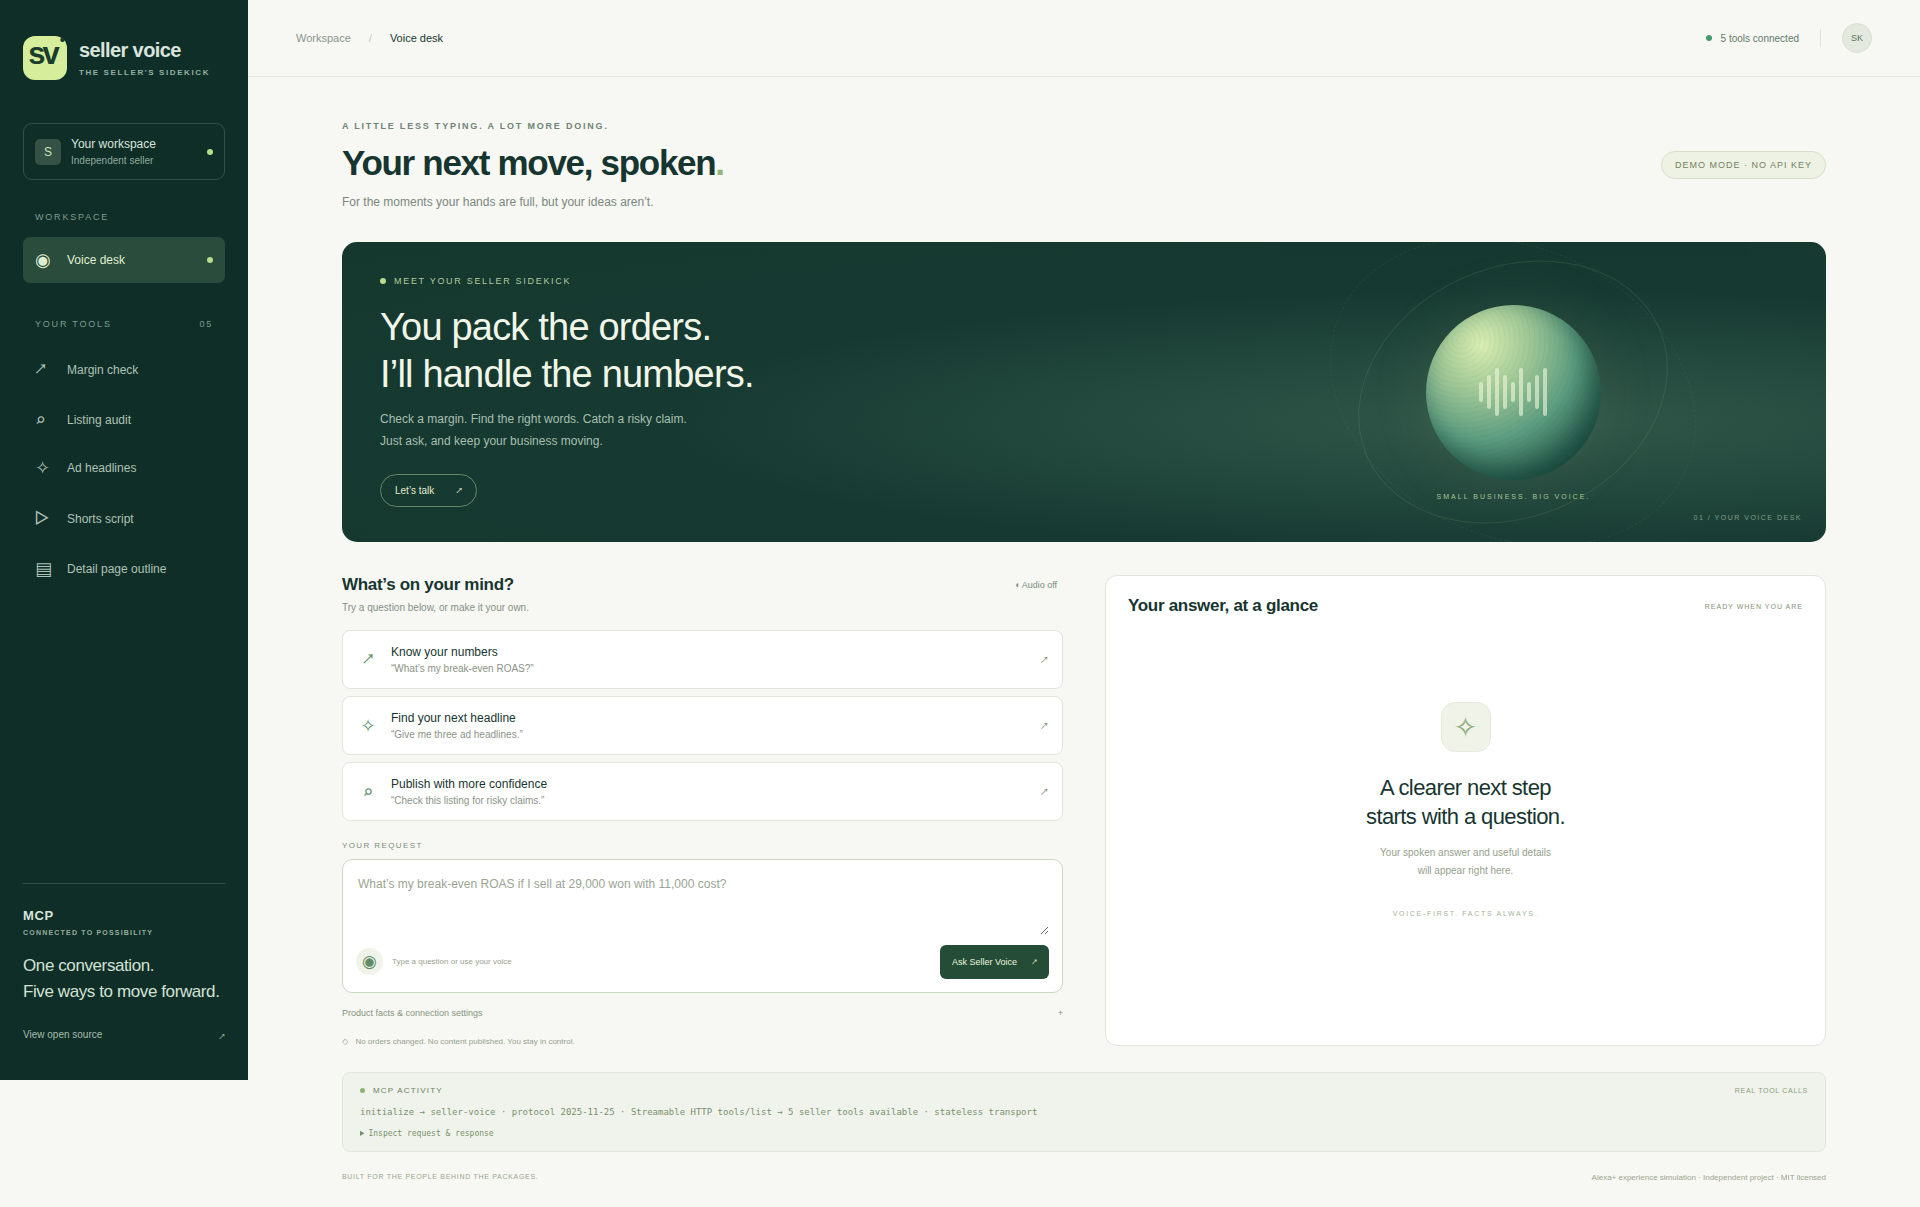
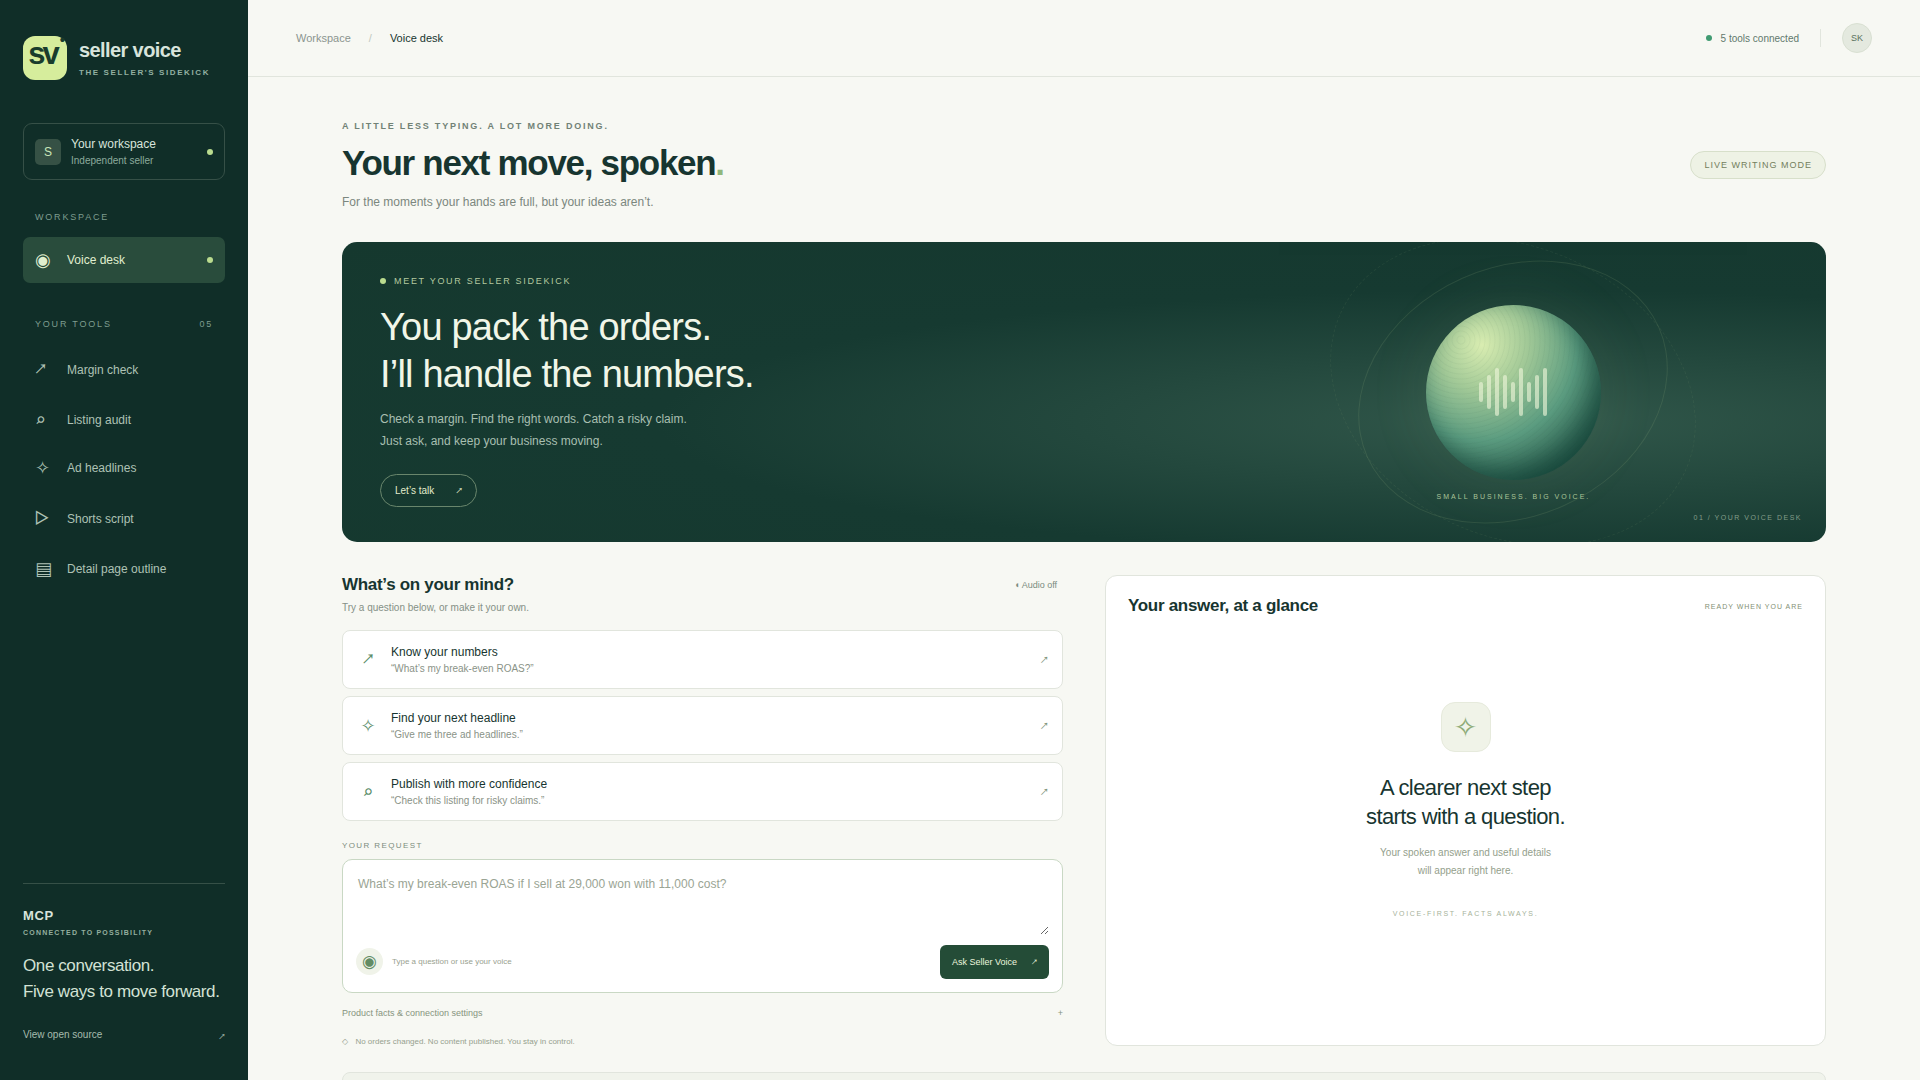
Record live production MCP results and token usage

diff --git a/scripts/capture.ts b/scripts/capture.ts
@@ -12,7 +12,7 @@ page.on('pageerror', e => errors.push(e.message));
 const calls: { tool: string; mode: string; speech: string; usage?: unknown; notice?: string }[] = [];
 try {
   await page.goto(url); await page.getByText('5 tools connected').waitFor();
-  await page.screenshot({ path: 'media/01-voice-desk.png', fullPage: true });
+  await page.screenshot({ path: 'media/01-voice-desk.png', fullPage: false });
   for (const [key, name] of [['margin', 'margin_check'], ['headlines', 'ad_headlines'], ['audit', 'listing_audit'], ['shorts', 'shorts_script'], ['outline', 'detail_page_outline']] as const) {
     await page.locator(`[data-example="${key}"]`).first().click();
     await page.getByRole('button', { name: 'Ask Seller Voice' }).click();
@@ -23,11 +23,11 @@ try {
     const output = payload.response.structuredContent;
     if (process.env.REQUIRE_LIVE === '1' && ['ad_headlines', 'shorts_script', 'detail_page_outline'].includes(name) && output.mode !== 'live') throw new Error(`Expected live ${name}: ${output.notice || output.mode}`);
     calls.push({ tool: name, mode: output.mode, speech: output.speech, ...(output.usage ? { usage: output.usage } : {}), ...(output.notice ? { notice: output.notice } : {}) });
-    await page.screenshot({ path: `media/0${calls.length + 1}-${key}.png`, fullPage: true });
+    await page.screenshot({ path: `media/0${calls.length + 1}-${key}.png`, fullPage: false });
     if (name === 'margin_check') {
       await page.locator('#payload summary').click();
       await page.locator('#payload').scrollIntoViewIfNeeded();
-      await page.screenshot({ path: 'media/08-mcp-payload.png', fullPage: true });
+      await page.screenshot({ path: 'media/08-mcp-payload.png', fullPage: false });
       await page.waitForTimeout(1800);
       await page.locator('#payload summary').click();
       await page.locator('h1').scrollIntoViewIfNeeded();

diff --git a/README.md b/README.md
@@ -97,6 +97,8 @@ The capture script runs all five tools over the actual HTTP connection, verifies
 
 ## Live mode
 
+Verified on production on October 16, 2026: real browser MCP `tools/call` requests returned `mode: "live"` for `ad_headlines`, `shorts_script` and `detail_page_outline`, with no fallbacks or page errors. Three provider calls used **766 prompt + 362 completion = 1,128 tokens**. Fresh 1920×1080 result captures and per-tool usage are in [media/verification.json](media/verification.json); raw WebM stays untracked in `media/`. The same capture checked all five tools and a 390-pixel mobile layout. These are browser/MCP results, not Alexa device validation.
+
 Production uses Nebius Token Factory with `nvidia/Nemotron-3_5-Lightning`. Keys live only in the hosting environment. Requests disable thinking with `chat_template_kwargs: { enable_thinking: false }`, use a `/no_think` instruction, JSON mode and a 1,800-token output budget. The client reads final `message.content`, strips `<think>` blocks, extracts JSON from fenced or wrapped answers and validates the tool schema. Separate reasoning content is never displayed. Usage includes only numeric prompt/completion/total token counts. HTTP errors, timeouts, missing final answers and invalid drafts show a **DEMO FALLBACK · LIVE UNAVAILABLE** label and notice.
 
 The client uses the documented OpenAI-compatible `POST /chat/completions` schema (`messages`, `model`, `response_format`; `choices[0].message.content` response), HTTPS and a 25-second timeout. Another compatible provider can be selected entirely through environment variables, for example Gemini at `https://generativelanguage.googleapis.com/v1beta/openai/` with an available model such as `gemini-2.5-flash`. Confirm your chosen model supports JSON responses. No provider key is bundled or sent to the browser.
